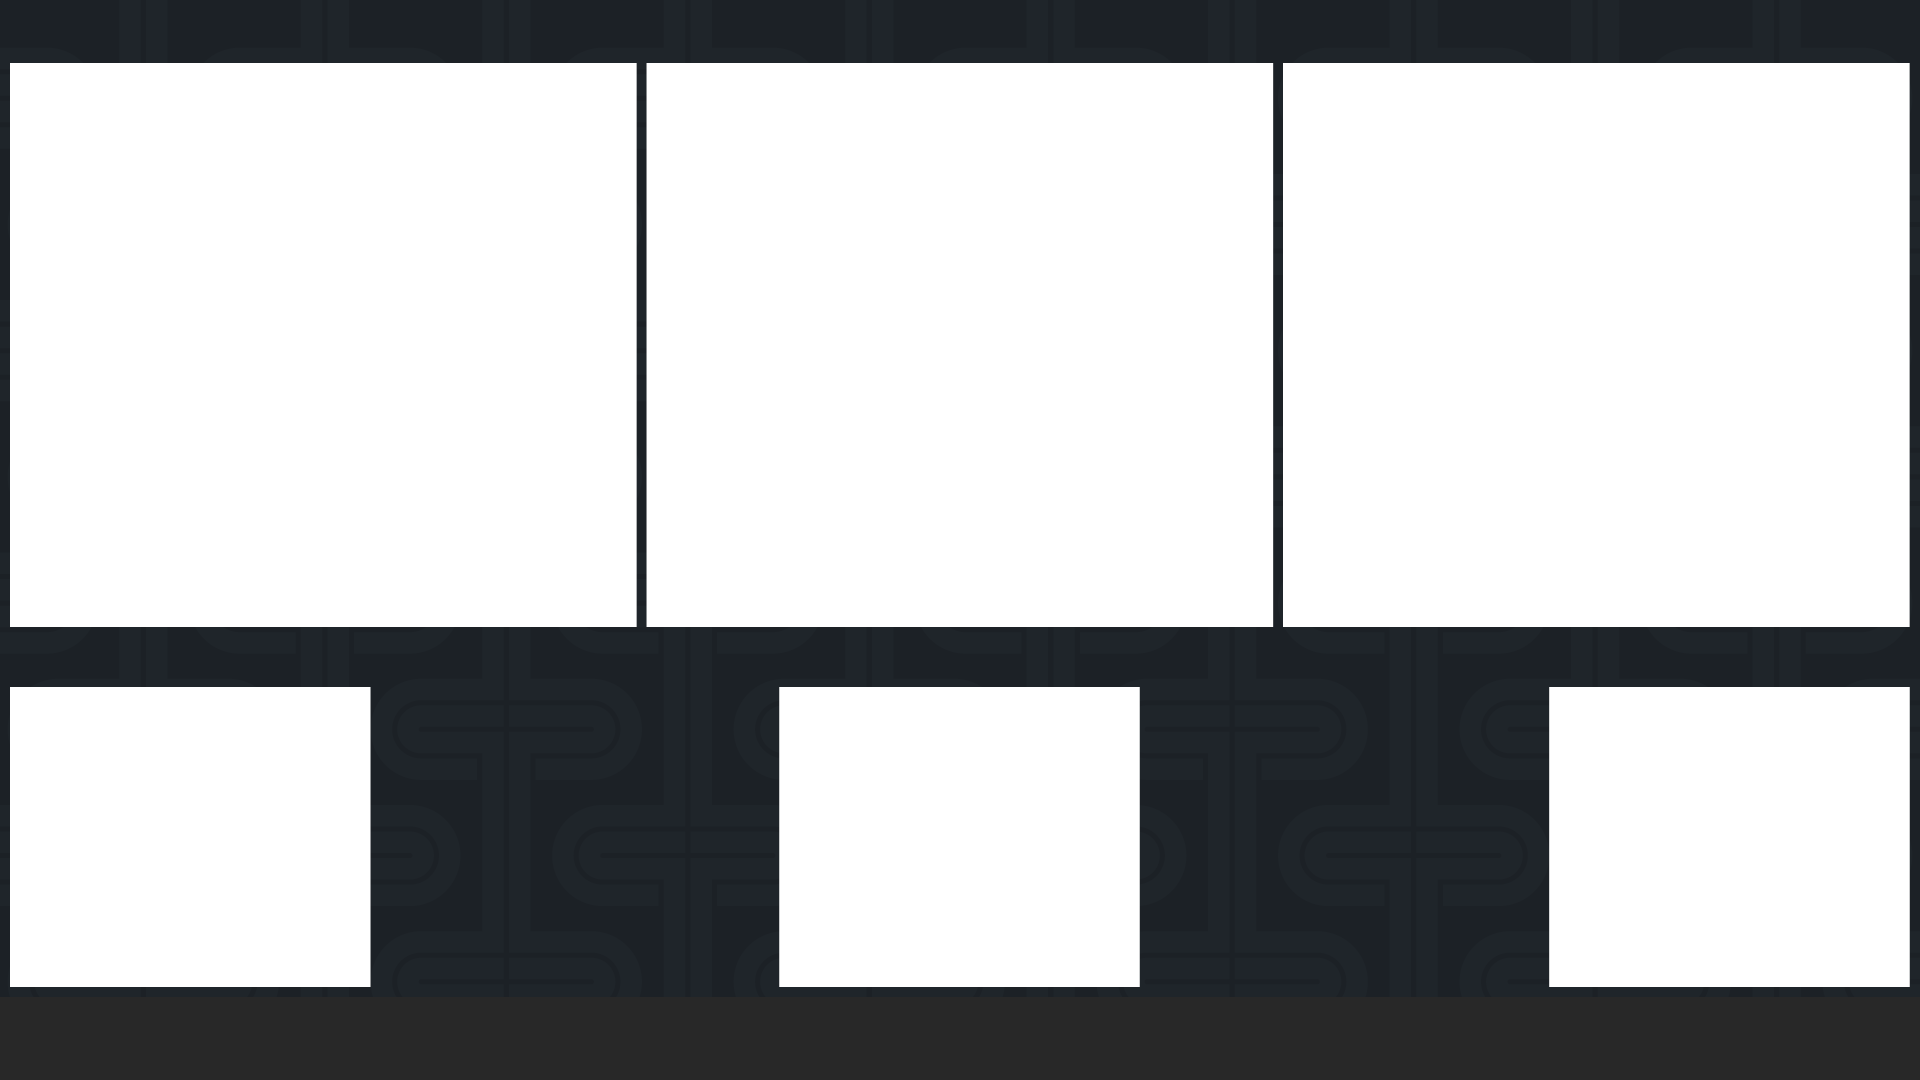
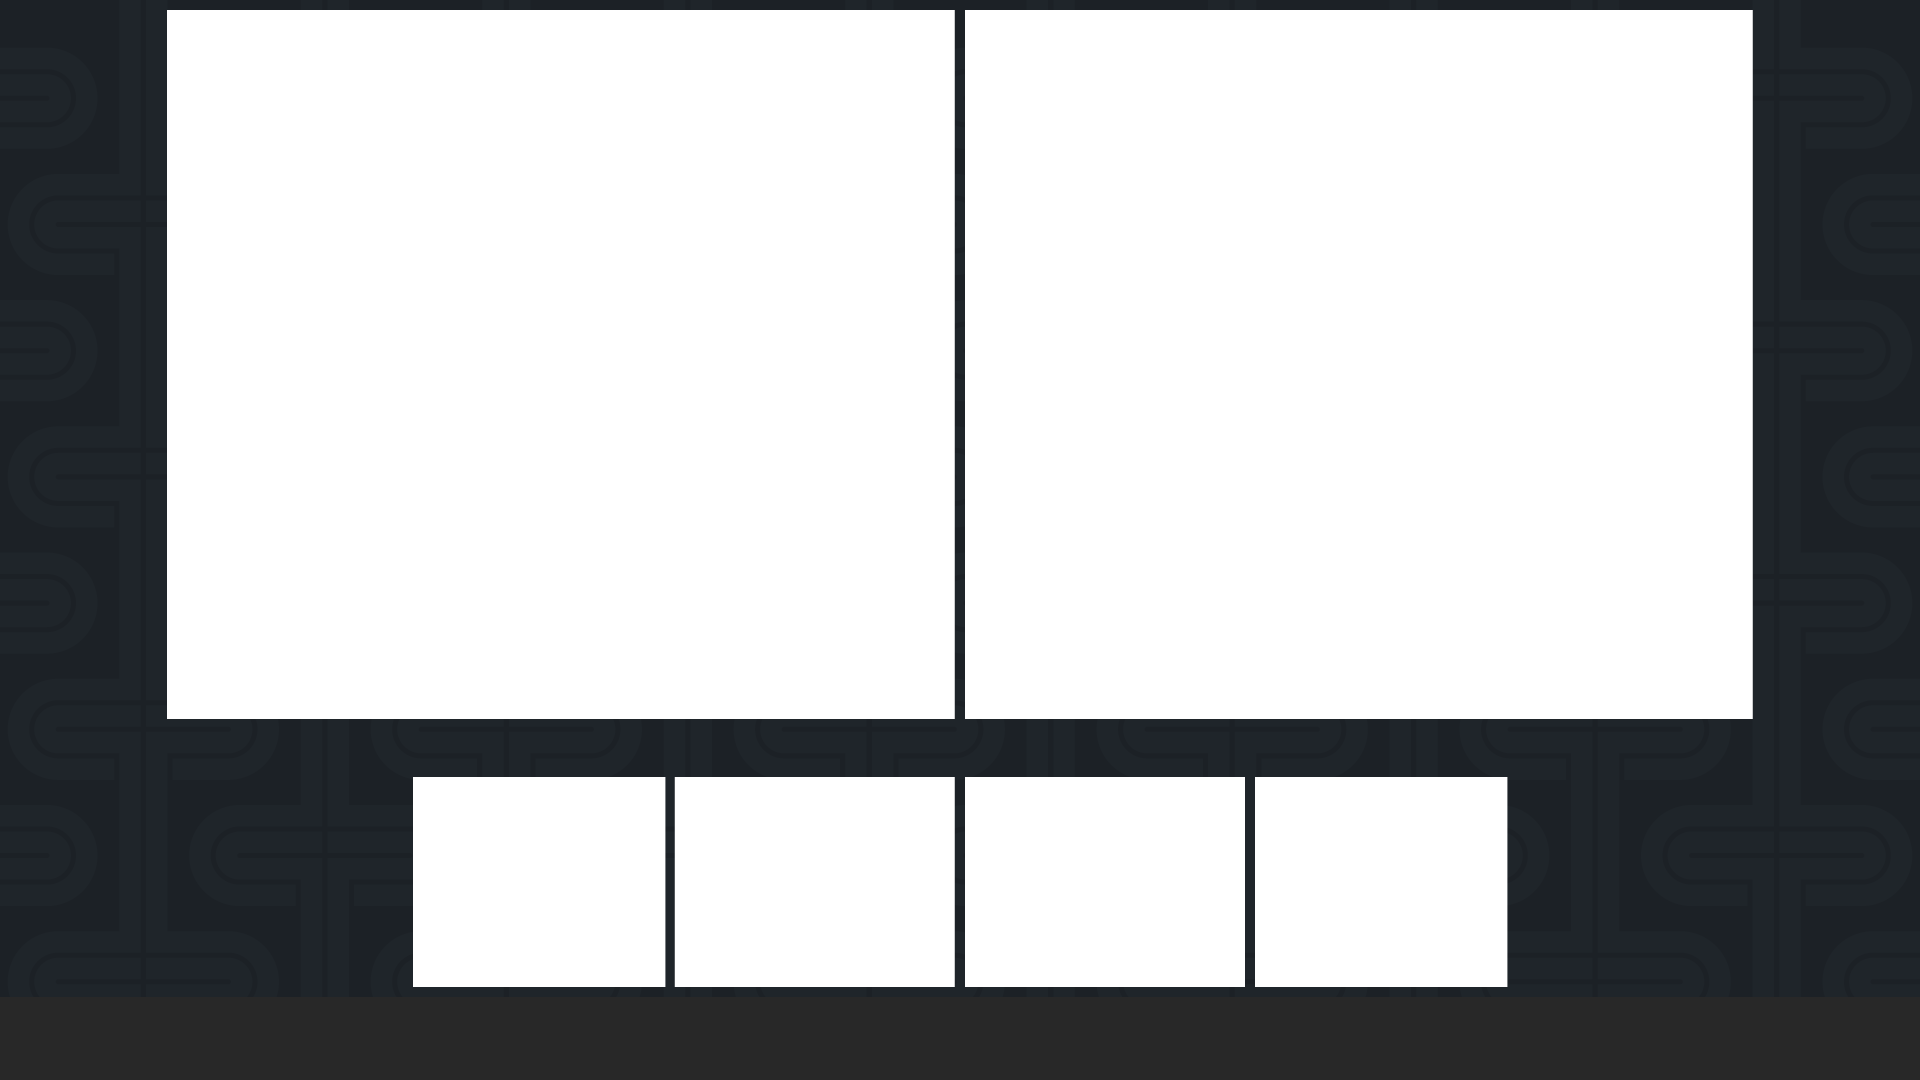
Poke Crystal rando screen now 2p

diff --git a/butter-blitz-2022/graphics/Poke_Crystal_Rando.html b/butter-blitz-2022/graphics/Poke_Crystal_Rando.html
@@ -32,25 +32,22 @@
          <div class="runner-name mar-r" id="runner-name2"></div>
          <div class="pronouns" id="pronouns2"></div>
       </div>
-      <div class="runner-container info-box" id="runner-container3">
-         <div class="runner-name mar-r" id="runner-name3"></div>
-         <div class="pronouns" id="pronouns3"></div>
-      </div>
    
       <!-- Game info -->
       <div id="info-container" class="flex-col">
          <div id="game-container" class="info-box mar-b">
             <div id="game-name"></div>
          </div>
-         <!-- <div id="game-info" class="info-box"></div> -->
          <div class="info-box mar-b">
             <div id="category"></div>
          </div>
-         <div class="info-box mar-b">
-            <div id="console"></div>
-         </div>
-         <div class="info-box">
-            <div id="estimate"></div>
+         <div class="flex-row">
+            <div class="info-box mar-r" style="flex: 2">
+               <div id="console"></div>
+            </div>
+            <div class="info-box" style="flex: 1">
+               <div id="estimate"></div>
+            </div>
          </div>
          <!-- Timer -->
          <div id="timer" class="info-box"></div>

diff --git a/butter-blitz-2022/graphics/css/Poke_Crystal_Rando.css b/butter-blitz-2022/graphics/css/Poke_Crystal_Rando.css
@@ -1,26 +1,23 @@
 /* Runner and pronouns panel. */
 .runner-container {
-	width: 626.67px;
+	width: 544px;
+	position: absolute;
+	bottom: 313px;
 }
 
-.runner-container {
-	position: absolute;
-	bottom: 403px;
+#runner-container1 {
+	left: 412px;
 }
 
 #runner-container2 {
-	left: 646.5px;
-}
-
-#runner-container3 {
-	right: 10px;
+	right: 412px;
 }
 
 /* Container for game info */
 #info-container {
-	width: 388.45px;
+	width: 393px;
 	position: absolute;
-	left: 380.55px;
+	left: 10px;
 	bottom: 93px;
 }
 
@@ -33,21 +30,17 @@
 	font-size: 85px;
 }
 
-.info-box #category {
-	padding: 0 7.5px;
-}
-
 /* Timer panel. */
 #timer {
 	font-size: 86px;
-	height: 80px;
+	height: 90px;
 }
 
 /* Sponsor panel. */
 #sponsor-container {
-	width: 389px;
-	height: 300px;
-	right: 381px;
+	width: 393px;
+	height: 259px;
+	right: 10px;
 	bottom: 93px;
 }
 
